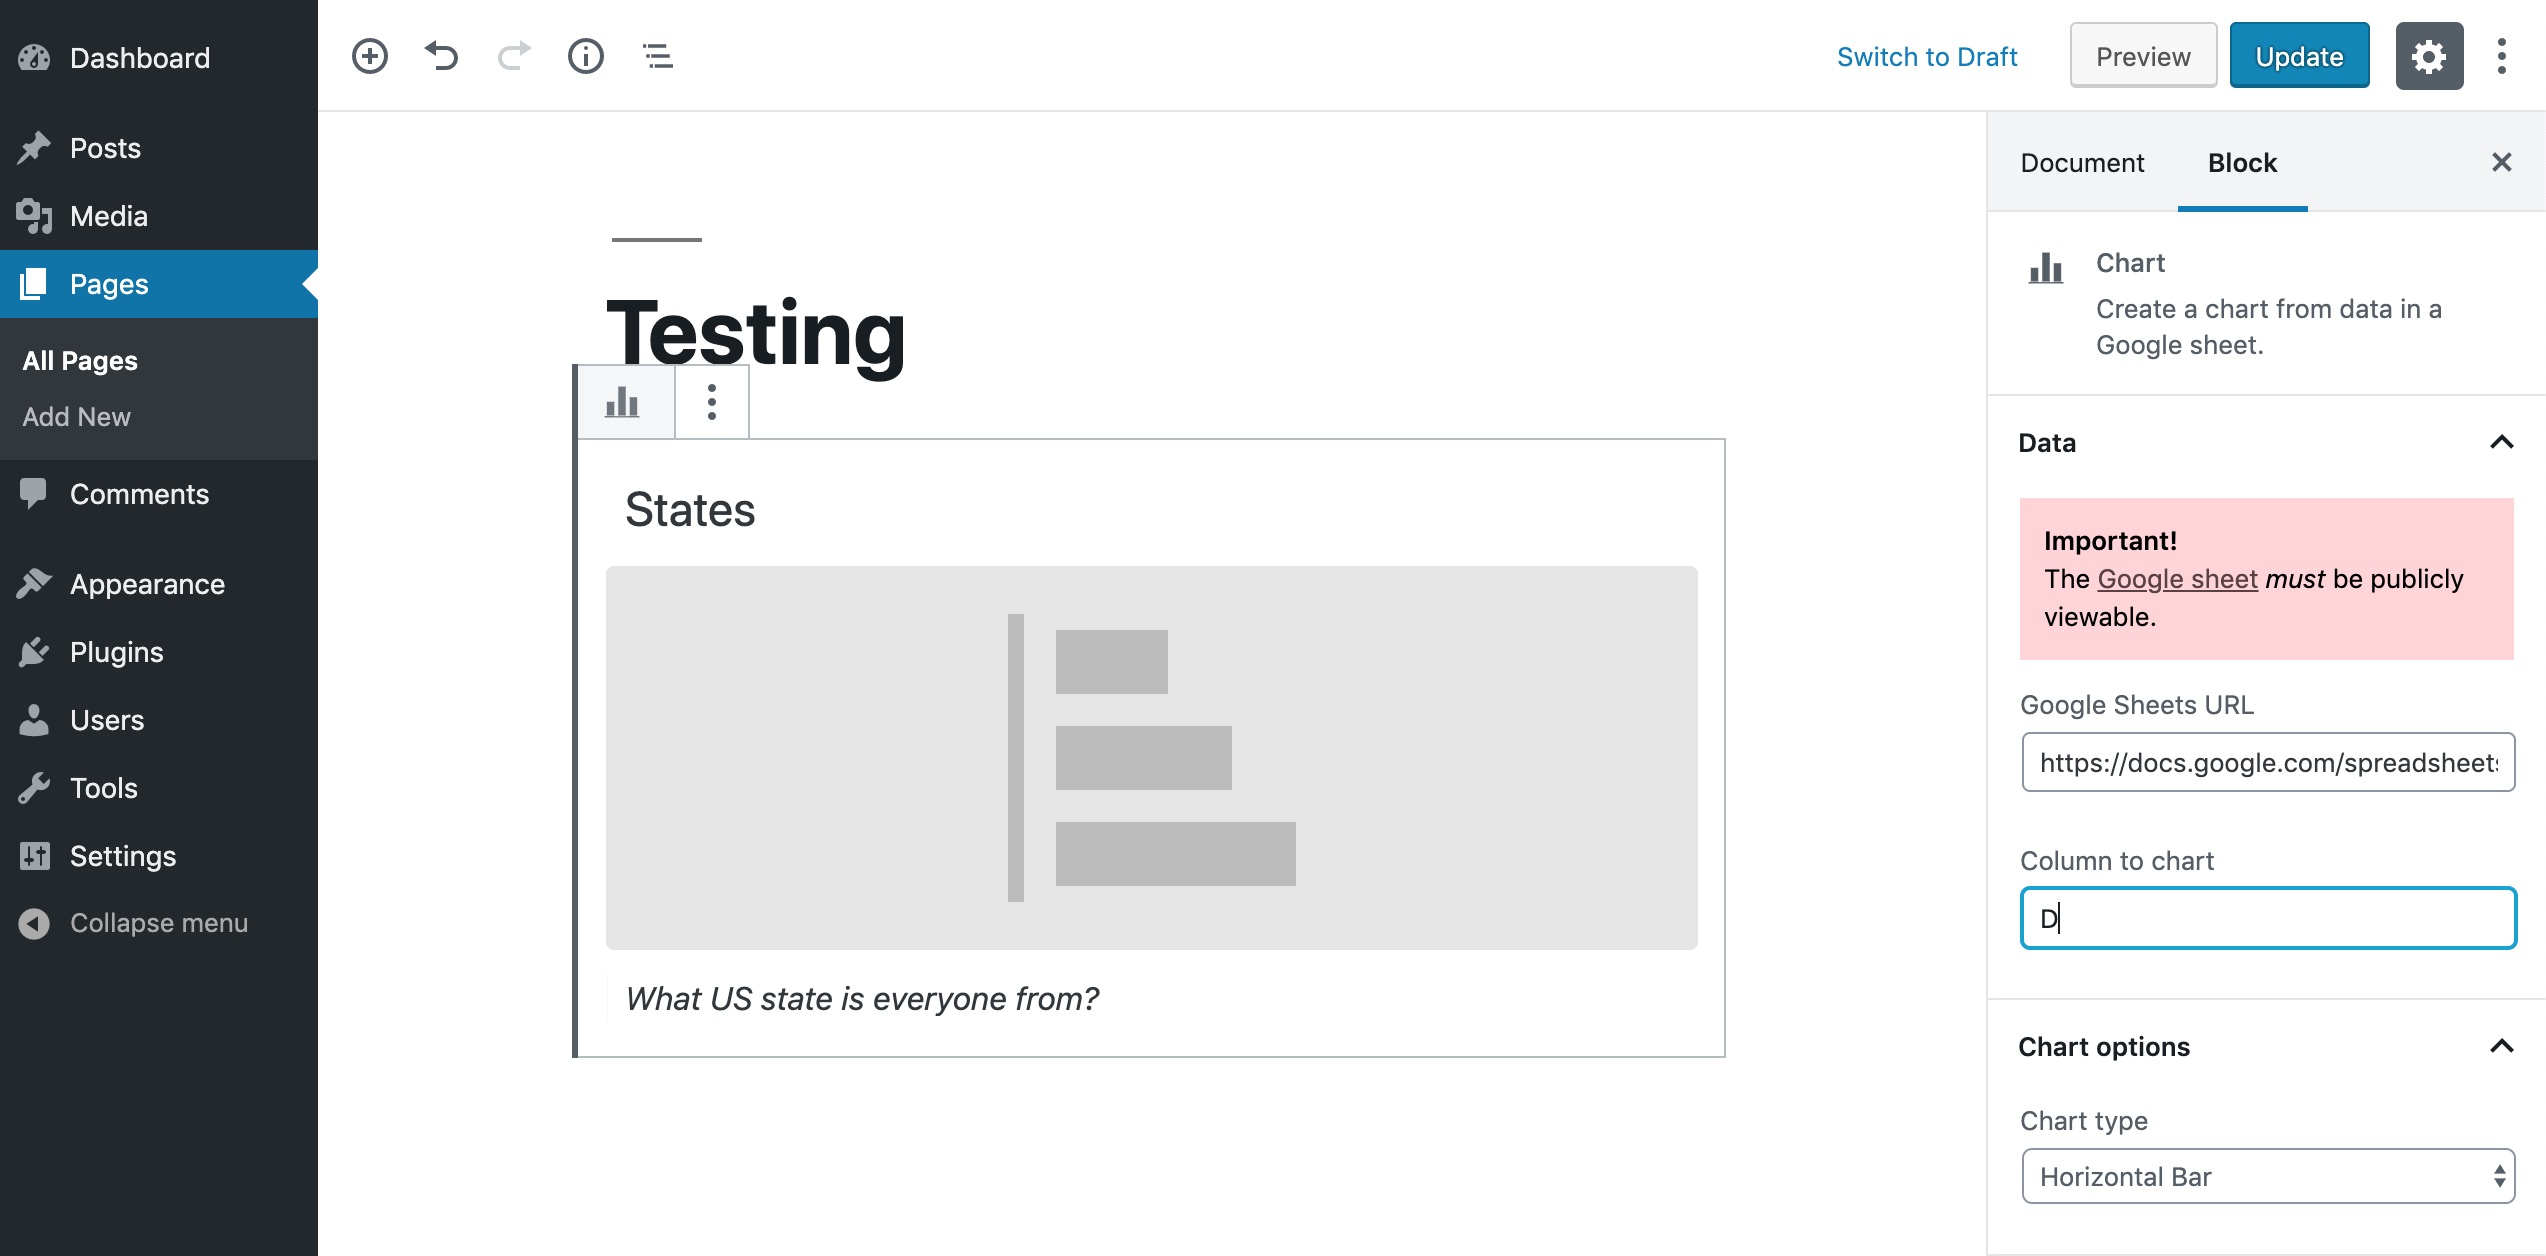
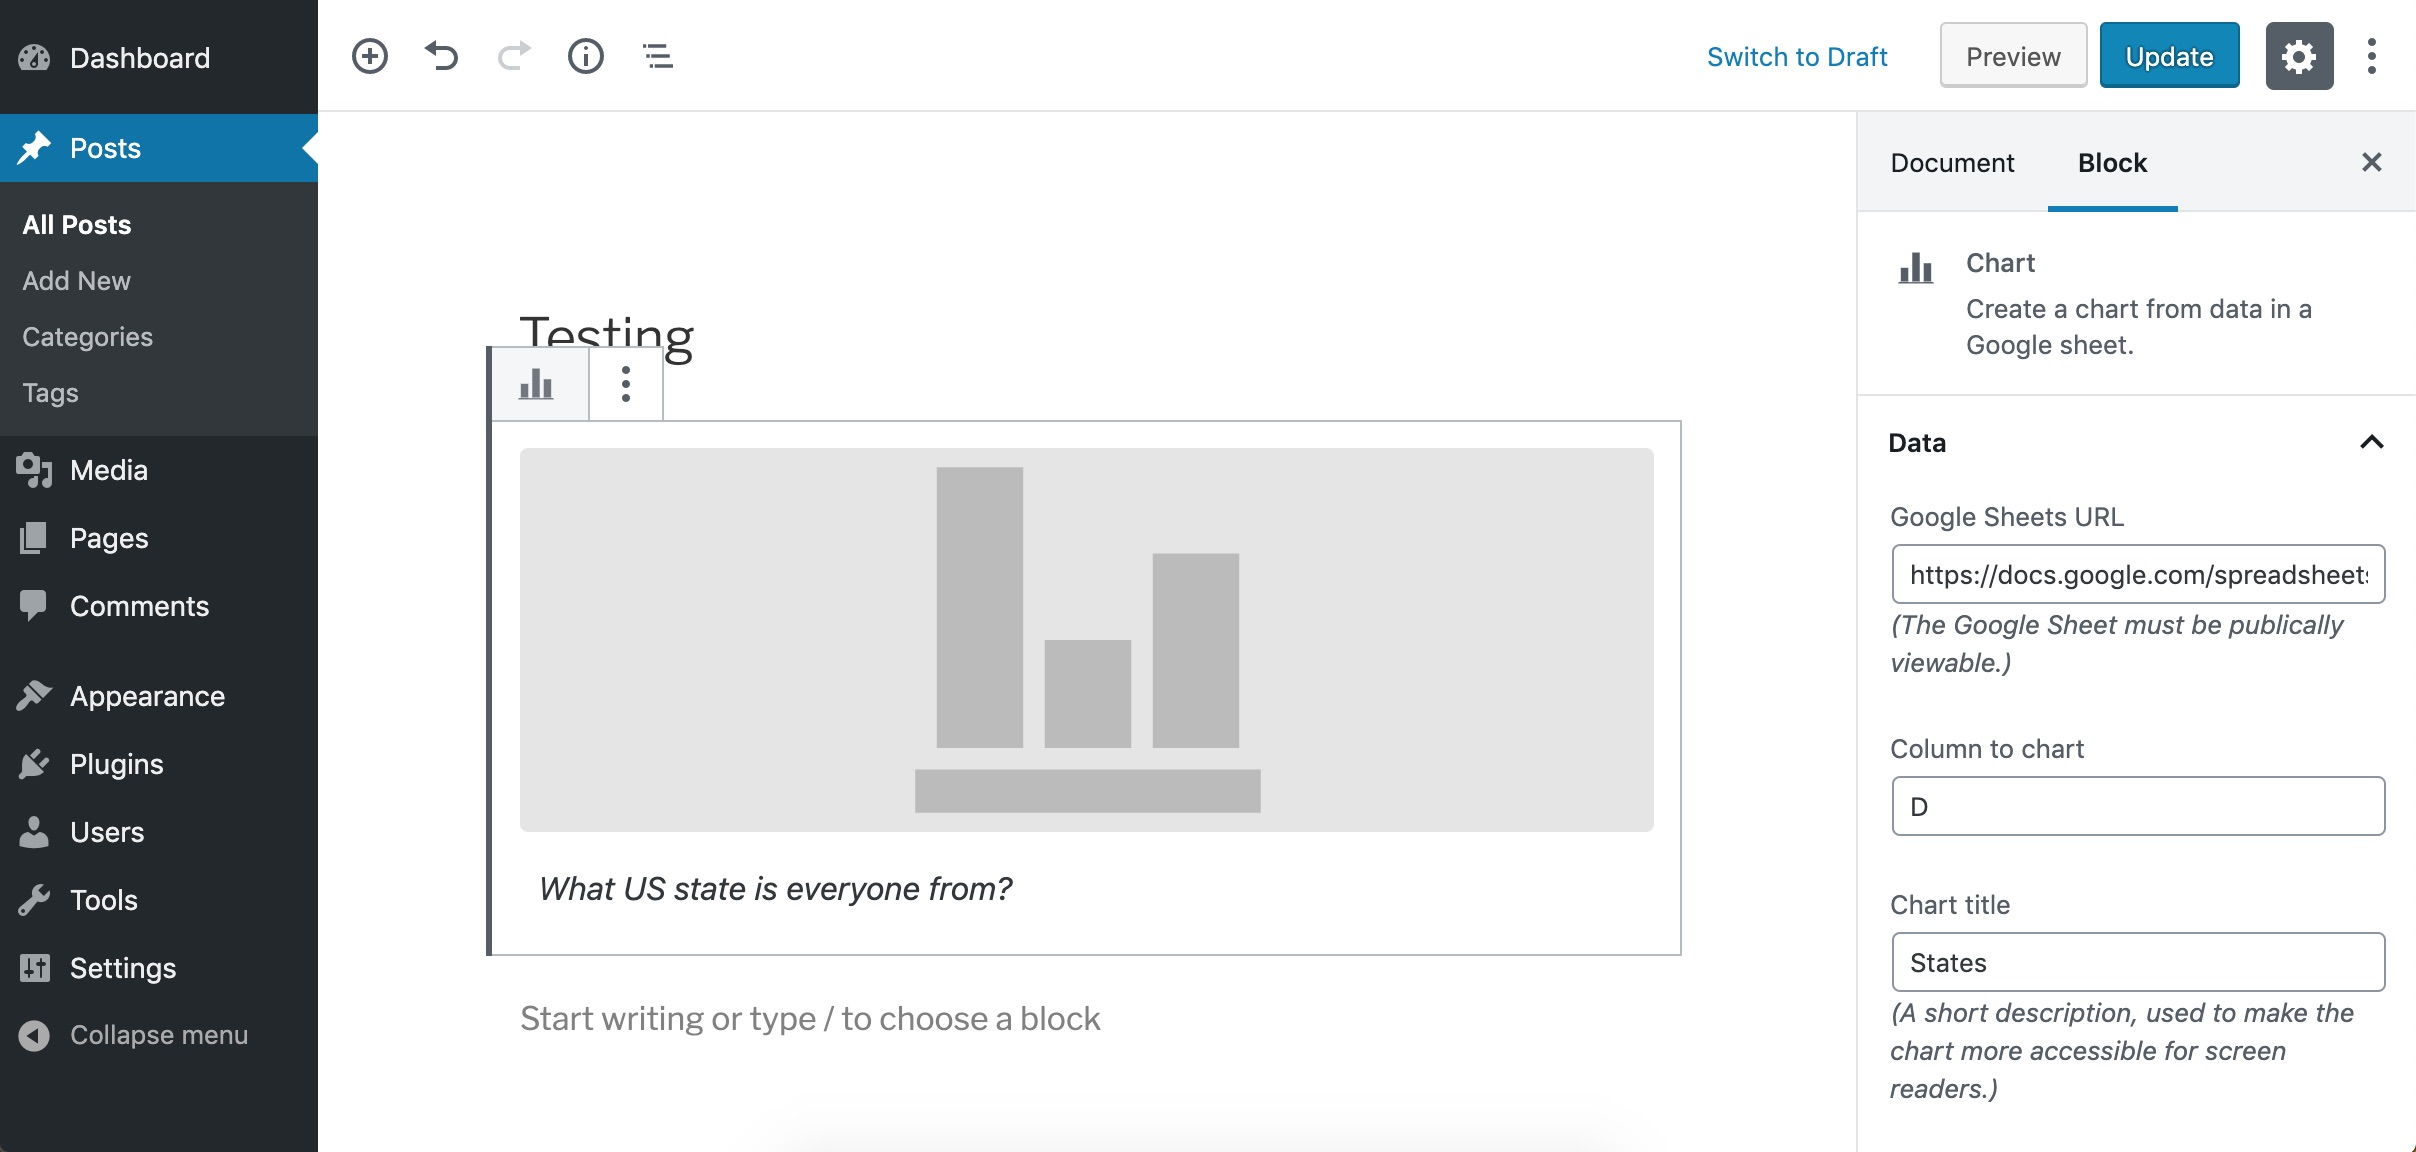
Adding color selection; updating readme and screenshots

diff --git a/besan-block/build/besan-block.min.js b/besan-block/build/besan-block.min.js
@@ -1,1 +1,1 @@
-!function l(o,c,i){function u(t,e){if(!c[t]){if(!o[t]){var a="function"==typeof require&&require;if(!e&&a)return a(t,!0);if(s)return s(t,!0);var n=new Error("Cannot find module '"+t+"'");throw n.code="MODULE_NOT_FOUND",n}var r=c[t]={exports:{}};o[t][0].call(r.exports,function(e){return u(o[t][1][e]||e)},r,r.exports,l,o,c,i)}return c[t].exports}for(var s="function"==typeof require&&require,e=0;e<i.length;e++)u(i[e]);return u}({1:[function(e,t,a){"use strict";Object.defineProperty(a,"__esModule",{value:!0}),a.default=void 0;function n(e){var t=e.isSelected,a=e.setAttributes,n=e.attributes,r=n.data,l=n.column,o=n.type,c=n.title,i=n.caption;return React.createElement(d,null,t&&React.createElement(p,null,React.createElement(u,{title:"Data"},!bbOptions.apiKey&&React.createElement("p",{className:"bb-notice"},React.createElement("strong",null,"Important!")," ",React.createElement("br",null),"You have no Google Sheets API key defined. The chart will not display without this key. Please enter your API key on the  ",React.createElement("a",{href:"/wp-admin/options-general.php?page=besan_options"},"Besan Block settings page"),"."),React.createElement(h,{label:"Google Sheets URL",help:"(The Google Sheet must be publically viewable.)",value:r,onChange:function(e){a({data:e})}}),React.createElement(h,{label:"Column to chart",value:l,onChange:function(e){a({column:e})}}),React.createElement(h,{label:"Chart title",help:"(A short description, used to make the chart more accessible for screen readers.)",value:c,onChange:function(e){a({title:e})}})),React.createElement(u,{title:"Display options"},React.createElement(s,{label:"Chart type",value:o,options:[{label:"Vertical Bar",value:"bar-vertical"},{label:"Horizontal Bar",value:"bar-horizontal"},{label:"Pie",value:"pie"}],onChange:function(e){a({type:e})}}))),React.createElement("div",{id:"bb-chart-edit"},React.createElement("div",{className:"bb-placeholder ".concat(o)}),React.createElement(h,{value:i,placeholder:"Write chart caption...",onChange:function(e){a({caption:e})},className:"bb-edit-caption"})))}var r=wp.components,u=r.PanelBody,s=r.SelectControl,h=r.TextControl,p=wp.editor.InspectorControls,d=wp.element.Fragment;a.default=n},{}],2:[function(e,t,a){"use strict";Object.defineProperty(a,"__esModule",{value:!0}),a.default=void 0;var n={};n.block=React.createElement("svg",{height:"20px",width:"20px",xmlns:"http://www.w3.org/2000/svg",viewBox:"0 0 96 96"},React.createElement("polygon",{points:"65.002,81.921 58.469,81.921 37.532,81.921 30.998,81.921 10.063,81.921 6.25,81.921 6.25,85.086 89.75,85.086 89.75,81.921 85.938,81.921"}),React.createElement("rect",{x:"11.563",y:"47.454",width:"17.936",height:"32.967"}),React.createElement("rect",{x:"66.502",y:"36.569",width:"17.936",height:"43.852"}),React.createElement("rect",{x:"39.032",y:"10.914",width:"17.937",height:"69.507"}));var r=n;a.default=r},{}],3:[function(e,t,a){"use strict";var n=l(e("./icons.js")),r=l(e("./edit.js"));function l(e){return e&&e.__esModule?e:{default:e}}(0,wp.blocks.registerBlockType)("tdg/chart",{title:"Chart",description:"Create a chart from data in a Google sheet.",category:"widgets",keywords:["chart","graph","data"],icon:n.default.block,edit:r.default,save:function(){return null}})},{"./edit.js":1,"./icons.js":2}]},{},[3]);
+!function l(o,c,i){function u(t,e){if(!c[t]){if(!o[t]){var a="function"==typeof require&&require;if(!e&&a)return a(t,!0);if(s)return s(t,!0);var n=new Error("Cannot find module '"+t+"'");throw n.code="MODULE_NOT_FOUND",n}var r=c[t]={exports:{}};o[t][0].call(r.exports,function(e){return u(o[t][1][e]||e)},r,r.exports,l,o,c,i)}return c[t].exports}for(var s="function"==typeof require&&require,e=0;e<i.length;e++)u(i[e]);return u}({1:[function(e,t,a){"use strict";Object.defineProperty(a,"__esModule",{value:!0}),a.default=void 0;function n(e){var t=e.isSelected,a=e.setAttributes,n=e.attributes,r=n.data,l=n.column,o=n.type,c=n.title,i=n.caption,u=n.color;return React.createElement(f,null,t&&React.createElement(m,null,React.createElement(h,{title:"Data"},!bbOptions.apiKey&&React.createElement("p",{className:"bb-notice"},React.createElement("strong",null,"Important!")," ",React.createElement("br",null),"You have no Google Sheets API key defined. The chart will not display without this key. Please enter your API key on the  ",React.createElement("a",{href:"/wp-admin/options-general.php?page=besan_options"},"Besan Block settings page"),"."),React.createElement(d,{label:"Google Sheets URL",help:"(The Google Sheet must be publically viewable.)",value:r,onChange:function(e){a({data:e})}}),React.createElement(d,{label:"Column to chart",value:l,onChange:function(e){a({column:e})}}),React.createElement(d,{label:"Chart title",help:"(A short description, used to make the chart more accessible for screen readers.)",value:c,onChange:function(e){a({title:e})}})),React.createElement(h,{title:"Display options"},React.createElement(p,{label:"Chart type",value:o,options:[{label:"Vertical Bar",value:"bar-vertical"},{label:"Horizontal Bar",value:"bar-horizontal"}],onChange:function(e){a({type:e})}}),React.createElement("label",null,"Chart color",React.createElement(s,{color:u,onChangeComplete:function(e){a({color:e.hex})},disableAlpha:!0})))),React.createElement("div",{id:"bb-chart-edit"},React.createElement("div",{className:"bb-placeholder ".concat(o)}),React.createElement(d,{value:i,placeholder:"Write chart caption...",onChange:function(e){a({caption:e})},className:"bb-edit-caption"})))}var r=wp.components,s=r.ColorPicker,h=r.PanelBody,p=r.SelectControl,d=r.TextControl,m=wp.editor.InspectorControls,f=wp.element.Fragment;a.default=n},{}],2:[function(e,t,a){"use strict";Object.defineProperty(a,"__esModule",{value:!0}),a.default=void 0;var n={};n.block=React.createElement("svg",{height:"20px",width:"20px",xmlns:"http://www.w3.org/2000/svg",viewBox:"0 0 96 96"},React.createElement("polygon",{points:"65.002,81.921 58.469,81.921 37.532,81.921 30.998,81.921 10.063,81.921 6.25,81.921 6.25,85.086 89.75,85.086 89.75,81.921 85.938,81.921"}),React.createElement("rect",{x:"11.563",y:"47.454",width:"17.936",height:"32.967"}),React.createElement("rect",{x:"66.502",y:"36.569",width:"17.936",height:"43.852"}),React.createElement("rect",{x:"39.032",y:"10.914",width:"17.937",height:"69.507"}));var r=n;a.default=r},{}],3:[function(e,t,a){"use strict";var n=l(e("./icons.js")),r=l(e("./edit.js"));function l(e){return e&&e.__esModule?e:{default:e}}(0,wp.blocks.registerBlockType)("tdg/chart",{title:"Chart",description:"Create a chart from data in a Google sheet.",category:"widgets",keywords:["chart","graph","data"],icon:n.default.block,edit:r.default,save:function(){return null}})},{"./edit.js":1,"./icons.js":2}]},{},[3]);

diff --git a/besan-block/source/js/block/edit.js b/besan-block/source/js/block/edit.js
@@ -2,14 +2,14 @@
  * EDIT: Chart block
  */
 
-const { PanelBody, SelectControl, TextControl } = wp.components;
+const { ColorPicker, PanelBody, SelectControl, TextControl } = wp.components;
 const { InspectorControls } = wp.editor;
 const { Fragment } = wp.element;
 
 let besanEdit = ( props ) => {
   // Get the values needed from props.
   const { isSelected, setAttributes } = props;
-  const { data, column, type, title, caption } = props.attributes;
+  const { data, column, type, title, caption, color } = props.attributes;
 
   // Declare change event handlers.
   const onChangeData    = ( value ) => { setAttributes( { data: value } ) };
@@ -17,6 +17,7 @@ let besanEdit = ( props ) => {
   const onChangeType    = ( value ) => { setAttributes( { type: value } ) };
   const onChangeTitle   = ( value ) => { setAttributes( { title: value } ) };
   const onChangeCaption = ( value ) => { setAttributes( { caption: value } ) };
+  const onChangeColor   = ( value ) => { setAttributes( { color: value.hex } ) };
 
   // Return the edit UI.
   return (
@@ -63,11 +64,19 @@ let besanEdit = ( props ) => {
               value={ type }
               options={ [
                 { label: 'Vertical Bar', value: 'bar-vertical' },
-                { label: 'Horizontal Bar', value: 'bar-horizontal' },
-                { label: 'Pie', value: 'pie' },
+                { label: 'Horizontal Bar', value: 'bar-horizontal' }
               ] }
               onChange={ onChangeType }
             />
+
+            <label>
+              Chart color
+              <ColorPicker
+                color={ color }
+                onChangeComplete={ onChangeColor }
+                disableAlpha
+              />
+            </label>
           </PanelBody>
 
         </InspectorControls>

diff --git a/besan-block/inc/get-svg-bar-vertical.inc.php b/besan-block/inc/get-svg-bar-vertical.inc.php
@@ -3,8 +3,8 @@
  * Helper function to create SVG for a vertical bar chart.
  */
 
-function besan_get_svg_bar_vertical( $data, $title ) {
-  $consts = _besan_bv_set_consts( $data );
+function besan_get_svg_bar_vertical( $data, $title, $chart_color ) {
+  $consts = _besan_bv_set_consts( $data, $chart_color );
   $svg = '';
 
   _besan_bv_get_svg_start( $svg, $consts, $title );
@@ -16,7 +16,7 @@ function besan_get_svg_bar_vertical( $data, $title ) {
 
 
 // [HELPER] Function to set constant values for chart creation.
-function _besan_bv_set_consts( $data ) {
+function _besan_bv_set_consts( $data, $chart_color ) {
   $consts = array(
     'height_total_px'  => 400,
     'height_chart_px'  => 360,
@@ -25,6 +25,7 @@ function _besan_bv_set_consts( $data ) {
     'offset_bar_pct'   => 2,
     'max_value'        => max( $data ),
     'base_color'       => '#000000',
+    'chart_color'      => $chart_color,
     'font_size'        => '14'
   );
 
@@ -75,7 +76,7 @@ function _besan_bv_get_data( &$svg, $data, $consts ) {
 
     // Write out the data.
     $svg .= '<g role="listitem" aria-label="' . $key . ', ' . $d . '" tabindex="0">';
-    $svg .= '<rect role="presentation" x="' . $offset . '%" y="' . $bar_offset . '" width="' . $bar_width . '%" height="' . $bar_height . '" fill="#ff0000" />';
+    $svg .= '<rect role="presentation" x="' . $offset . '%" y="' . $bar_offset . '" width="' . $bar_width . '%" height="' . $bar_height . '" fill="' . $consts['chart_color'] . '" />';
     $svg .= '<text role="presentation" x="' . $offset . '%" y="' . $consts['label_x_axis_px'] . '" fill="' . $consts['base_color'] . '" font-size="' . $consts['font_size'] . '">' . $key . '</text>';
     $svg .= '</g>';
 

diff --git a/besan-block/inc/get-svg-bar-horizontal.inc.php b/besan-block/inc/get-svg-bar-horizontal.inc.php
@@ -3,8 +3,8 @@
  * Helper function to create SVG for a horizontal bar chart.
  */
 
-function besan_get_svg_bar_horizontal( $data, $title ) {
-  $consts = _besan_bh_set_consts( $data );
+function besan_get_svg_bar_horizontal( $data, $title, $chart_color ) {
+  $consts = _besan_bh_set_consts( $data, $chart_color );
   $svg = '';
 
   _besan_bh_get_svg_start( $svg, $consts, $title );
@@ -16,13 +16,14 @@ function besan_get_svg_bar_horizontal( $data, $title ) {
 
 
 // [HELPER] Function to set constant values for chart creation.
-function _besan_bh_set_consts( $data ) {
+function _besan_bh_set_consts( $data, $chart_color ) {
   $consts = array(
     'height_bar_px'    => 50,
     'offset_chart_pct' => 20,
     'offset_bar_px'    => 10,
     'max_value'        => max( $data ),
     'base_color'       => '#000000',
+    'chart_color'      => $chart_color,
     'font_size'        => '14'
   );
 
@@ -69,7 +70,7 @@ function _besan_bh_get_data( &$svg, $data, $consts ) {
 
     // Write out the data.
     $svg .= '<g role="listitem" aria-label="' . $key . ', ' . $d . '" tabindex="0">';
-    $svg .= '<rect role="presentation" x="' . $consts['offset_chart_pct'] . '%" y="' . $offset . '" width="' . $bar_width . '%" height="' . $consts['height_bar_px'] . '" fill="#0000ff" />';
+    $svg .= '<rect role="presentation" x="' . $consts['offset_chart_pct'] . '%" y="' . $offset . '" width="' . $bar_width . '%" height="' . $consts['height_bar_px'] . '" fill="' . $consts['chart_color'] . '" />';
     $svg .= '<text role="presentation" x="0" y="' . $label_offset . '" fill="' . $consts['base_color'] . '" font-size="' . $consts['font_size'] . '">' . $key . '</text>';
     $svg .= '</g>';
 

diff --git a/besan-block/inc/render-block.inc.php b/besan-block/inc/render-block.inc.php
@@ -37,11 +37,11 @@ function _besan_construct_svg( $attributes, $data ) {
   switch( $attributes['type'] ) {
     case 'bar-vertical':
       require_once( 'get-svg-bar-vertical.inc.php' );
-      return besan_get_svg_bar_vertical( $data, $attributes['title'] );
+      return besan_get_svg_bar_vertical( $data, $attributes['title'], $attributes['color'] );
 
     case 'bar-horizontal':
       require_once( 'get-svg-bar-horizontal.inc.php' );
-      return besan_get_svg_bar_horizontal( $data, $attributes['title'] );
+      return besan_get_svg_bar_horizontal( $data, $attributes['title'], $attributes['color'] );
 
     default:
       require_once( 'get-svg-bar-vertical.inc.php' );

diff --git a/besan-block/inc/register-block.inc.php b/besan-block/inc/register-block.inc.php
@@ -13,7 +13,8 @@ function besan_register() {
       'column'  => array( 'type' => 'string', 'default' => 'A' ),
       'type'    => array( 'type' => 'string', 'default' => 'bar-vertical' ),
       'title'   => array( 'type' => 'string', 'default' => '' ),
-      'caption' => array( 'type' => 'string', 'default' => '' )
+      'caption' => array( 'type' => 'string', 'default' => '' ),
+      'color'   => array( 'type' => 'string', 'default' => '#000000' )
     ),
 
     // Declare render callback function.

diff --git a/README.md b/README.md
@@ -6,12 +6,15 @@ This WordPress plugin adds a responsive and accessible data chart block to the p
 
 1. In the WordPress admin, install and enable the "Besan Block" plugin.
 
-2. Edit any page or post and add the "Chart" editor block.
+2. Enter your Google Sheets API key on the plugin's settings page.
 
-3. In the Inspector panel (on the right-hand side of the editor), enter the following information:
+3. Edit any page or post and add the "Chart" editor block.
+
+4. In the Inspector panel (on the right-hand side of the editor), enter the following information:
   * The URL of your publicly viewable Google sheet
   * The column of data that your chart will be based on
   * What kind of chart you would like to display
+  * What color the bars of the chart should be.
 
 4. Optionally _(but preferably)_, enter a title and caption for the chart inside the editor.
 
@@ -21,10 +24,5 @@ The block will calculate the number of unique values inside that column and crea
 
 * Vertical bar chart
 * Horizontal bar chart
-* Pie chart _(coming soon!)_
 
-## Development notes and to-dos
-
-* Example spreadsheet used: https://docs.google.com/spreadsheets/d/1BxiMVs0XRA5nFMdKvBdBZjgmUUqptlbs74OgvE2upms/edit#gid=0
-* Need to remove the Google API key from this repo. Probably add a settings page where someone can enter in their own Google API key. Maybe some documentation, notes, etc can live there too.
-* Custom colors? Or... better colors? Maybe allow user to specify color or choose "random".
+Other chart types (including pie charts!) are coming soon.
